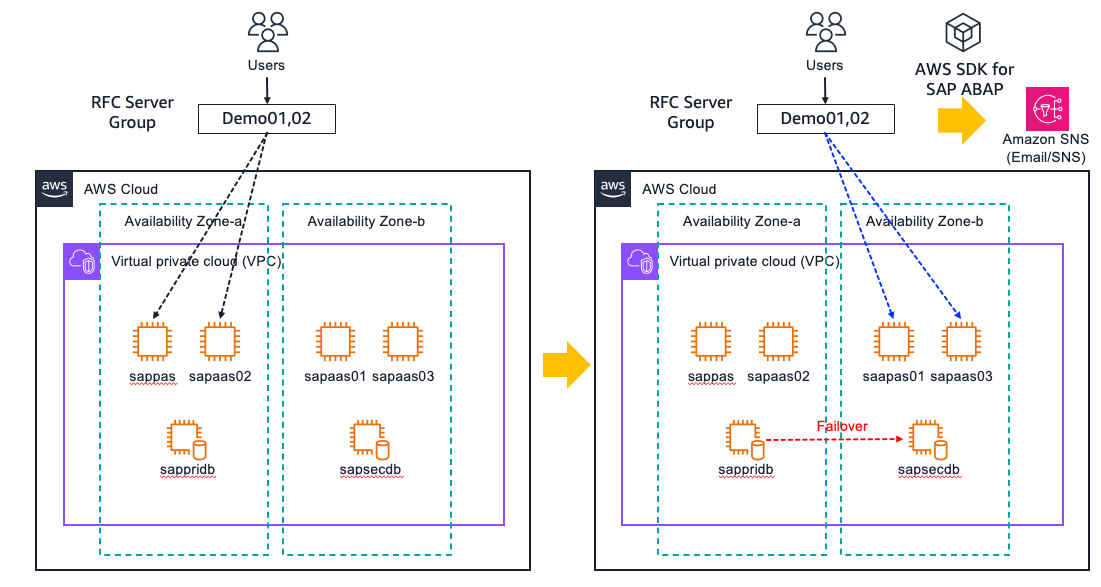
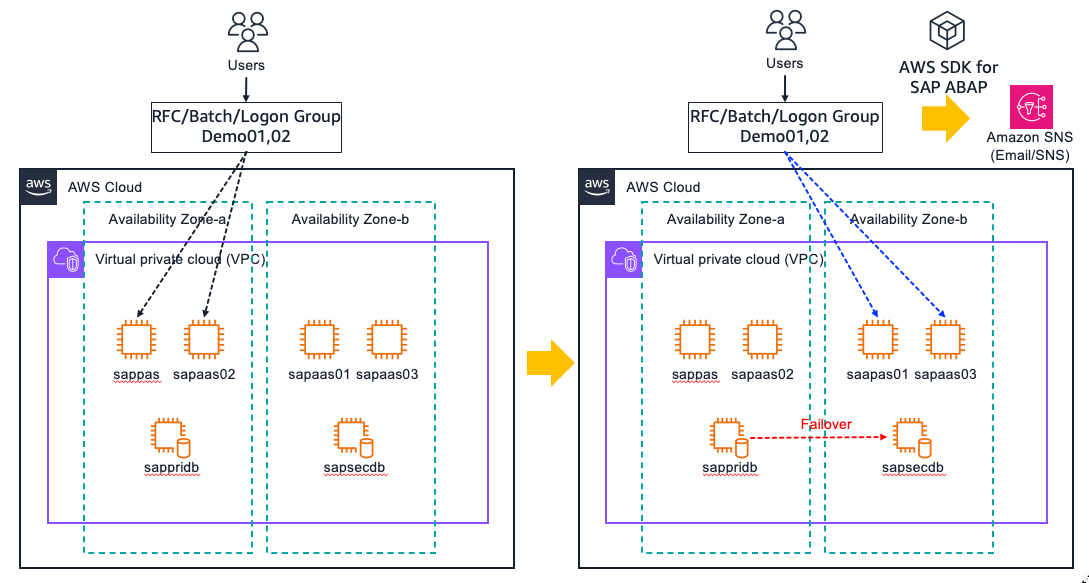
change README.md and architecture by Sejun, Aug 5

diff --git a/README.md b/README.md
@@ -21,7 +21,7 @@ The solution uses two operational tables.
 1. **ZTAWSMULTIDB** : Save the result of SQL execution of getting an active database hostname.
 2. **ZTAWSMULTIAZ** : Save the configuration information of changing application servers each groups.
 
-You can create tables also create **ZE_AWS_DBHOST**,**ZE_AWS_GROUPTYPE**,  data elements using a transaction via **SE11**. Please refer to the below pictures for table structures.
+You need to create **ZTAWSMULTIDB**, **ZTAWSMULTIAZ** tables and also create **ZE_AWS_DBHOST**,**ZE_AWS_GROUPTYPE** data elements using a transaction via **SE11**. Please refer to the below pictures for table structures.
 
 * ZTAWSMULTIDB Table
 ![1.ZTAWSMULTIDB](./readmeImage/1.ZTAWSMULTIDB.png)
@@ -50,7 +50,7 @@ Before executing this solution, we need to update **ZTAWSMULTIAZ** table to meet
 
 ## 3. Configuring AWS SDK for SAP ABAP
 
-This solution also includes the ability to push messages to Amazon SNS using the **AWS SDK for SAP ABAP** to notify BC admins of alerts via email or SNS. If the Active database server would be fail, it will send an **"HANA DB server takeover to sapsecdb or sappridb"** as as elert message. After succesfully chaing the groups, send an **"Successfully changed Logon/RFC/Batchjob Group"** as as elert message.
+This solution also includes the ability to push messages to Amazon SNS using the **AWS SDK for SAP ABAP** to notify BC admins of alerts via email or SNS. If the Active database server would be fail, it will send an **"HANA DB server takeover to sapsecdb or sappridb"** as as elert message. After succesfully changing the groups, send an **"Successfully changed Logon/RFC/Batchjob Group"** as as elert message.
 
 * If you need to configure AWS SDK for SAP ABAP, Please visit to [AWS SDK for SAP ABAP Workshop - Pre-requisite infrastructure on own AWS account](https://catalog.workshops.aws/abapsdk/en-US/lab99)
 * You need to create a SNS topic and cofigure relevant settings. Please go through [AWS SDK for SAP ABAP Workshop - Lab03. Amazon SNS](https://catalog.workshops.aws/abapsdk/en-US/lab03). Since the main ABAP program includes it, you don't need to create a sample program.
@@ -76,7 +76,7 @@ Now, we will create a main ABAP Program. you can create it using the ABAP Editor
 
 ## 5. Define a Background Job.
 
-Finally, we will define a background job to execute a main ABAP program every 5 minutes. You can define it using a transaction via **SM36**.
+Finally, we will define a background job to periodically(for example, every 5 minutes) execute a main ABAP program. You can define it using a transaction via **SM36**.
 
 * Enter **MULTIAZ_NETWORK** as the Job Name, and click **Save** button.
 * Select **ZAWS_MULTIAZ_NETWORK** as the ABAP program, and click **Save** button.
